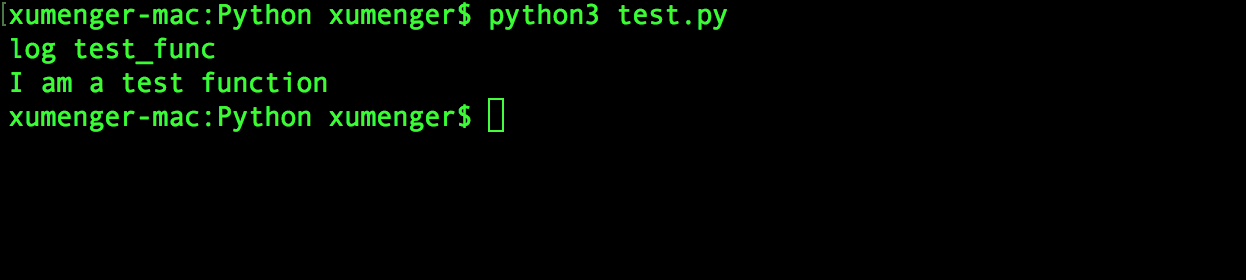
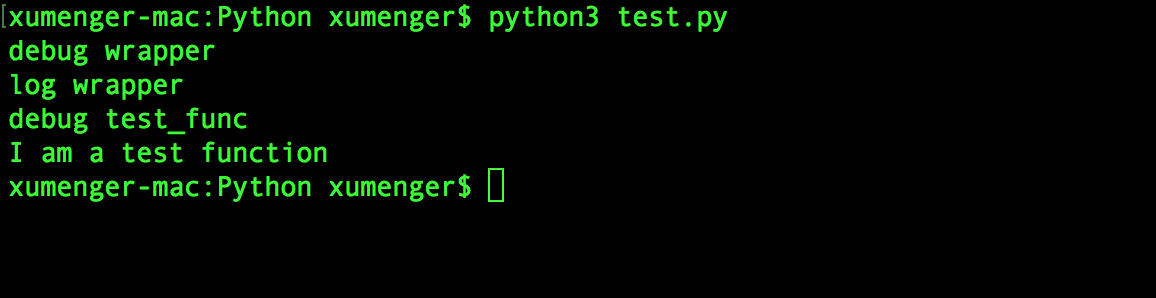
python java

diff --git a/_posts/2018-10-14-java-annotation-20181014.md b/_posts/2018-10-14-java-annotation-20181014.md
@@ -2,7 +2,7 @@
 layout: post
 title: Java注解
 categories: java之设计模式 java之面向对象
-tags: Java 注解 反射 设计模式 python 
+tags: Java 注解 反射 设计模式 python Java5 反射 依赖注入 
 ---
 
 >[之前](http://www.xumenger.com/talk-java-20180819/)我就讲过Java 中的注解和Python 中的装饰器在最直观的语法层面看起来很像，所以首先推荐一篇[《面向对象编程：Java注解与Python装饰器》](https://alexknight.github.io/java/2018/07/19/annotation-and-decorate.html)
@@ -47,4 +47,18 @@ public class TestController {
 编译运行的效果是这样的
 
 ![image](../media/image/2018-10-14/01.png)
+
+## Java注解
+
+注解是Java5 开始引入的新特征，它提供了一种安全的类似注视的机制，用来将任何的信息或元数据（MetaData）与程序元素（类、方法、成员变量等）进行关联。为程序的元素（类、方法、成员变量等）加上更加直观明了的说明，这些说明信息是与程序的业务逻辑无关，并且供执行的工具或框架使用。注解像一种修饰符一样，应用于包、类型、构造方法、方法、成员变量、参数及本地变量的声明语句中
+
+Java 注解是附加在代码中的一些元信息，用于一些工具在编译、运行时进行解析和使用，起到说明、配置的功能。注解不会也不能影响代码的实际逻辑，仅仅起到辅助性的作用。包含在java.lang.annotation 包中
+
+注解至少有以下作用：
+
+* 生成代码。这是最常见的，也是Java 最早提供的注解。常见的有@param、@return 等
+* 跟踪代码依赖性，实现替代配置文件功能。比如Dagger2 依赖注入，未来Java 开发，将大量注解配置
+* 在编译时进行格式检查。如@override 放在方法前，如果你这个方法并不是覆盖了超类方法，则编译时就能检查出
+
+注解本质时一个继承了Annotation 的特殊接口，其具体实现类是Java 运行时生成的动态代理类。而我们通过反射获取注解时，返回的是Java 运行时生成的动态代理对象$Proxy1，通过代理对象调用自定义注解（接口）的方法，会最终调用AnnotationInvocationHandler 的invoke 方法。该方法会从memberValues 这个Map 中索引出对应的值。而memberValues 的来源是Java 常量池！
 

diff --git a/_posts/2018-10-13-python-decorator-20181013.md b/_posts/2018-10-13-python-decorator-20181013.md
@@ -29,12 +29,18 @@ if __name__ == '__main__':
 正是使用的装饰器来实现的，其实可以进一步去看一下Flask 中route 的实现
 
 ```python
+class Flask(object):
+
+    ...
+
     def route(self, rule, **options):
         def decorator(f):
             self.add_url_rule(rule, f.__name__, **options)
             self.view_function[f.__name__] = f
             return f
         return decorator
+
+    ...
 ```
 
 好了，接下来就简单讲一下Python 中的这个装饰器
@@ -49,8 +55,17 @@ def log(func):
         return func()
     return wrapper
 
+def debug(func):
+    def wrapper():
+        print("debug {}".format(func.__name__))
+        return func()
+    return wrapper
+
+
 # 在函数前面加上装饰器
+@debug
 @log
+@debug
 def test_func():
     print("I am a test function")
 
@@ -62,3 +77,10 @@ if('__main__' == __name__):
 
 ![image](../media/image/2018-10-13/01.png)
 
+## Python装饰器
+
+Python 装饰器仅提供定义劫持，对类及其方法的定义并没有提供任何附加元数据的功能
+
+装饰器的本质上是一个Python 函数或类，它可以让其他函数或类在不需要做任何代码修改的前提下增加额外功能，装饰器的返回值也是一个函数、类对象
+
+它经常用于有切面需求的场景，比如：插入日志、性能测试、事务处理、缓存、权限校验等场景
